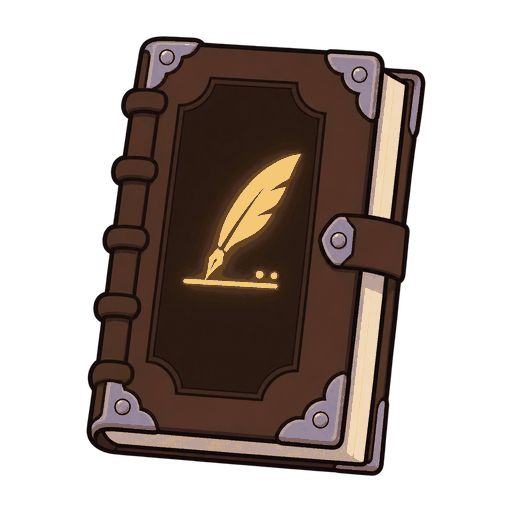
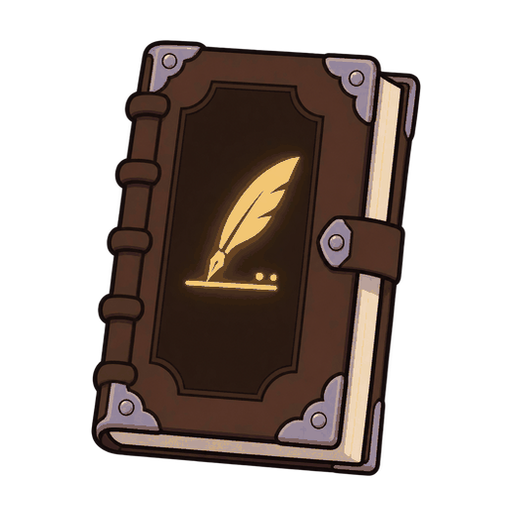
fix(art): the practice books stop changing size with the theme
Two problems, both about a day/night pair not being one composition.

**The books changed footprint when the theme switched.** The generator crops
each file to its own content, so every book arrived as its own bounding box -
the flashcard 655x898, the translation 743x963 - and the night half of a pair
was drawn up to 15% wider than the day half at the same height (choice 329px
vs 378px of content). Rendered at a fixed width that reads as the book growing
and stepping sideways when the theme flips.

Prompting "the same composition" did not get there. It is fixed in the pixels
instead: every pair is now normalised to one canvas (512x512) and one content
height (440px), and each night drawing is resized to occupy exactly the box
its day twin occupies - same left edge, same right edge, same floor. A book is
a rectangle, so the horizontal squeeze lands on the cover panel without
reading as distortion. Verified in the browser: all eight books report the
same 132x132 frame and the same offset in both themes.

**The conversation book had no cover.** It shipped as a drawn SVG placeholder -
a flat green rectangle with a speech mark - because the five AI exercise types
were added after the original art pass. It now has a painted cover in the same
book language as the other seven, day and night, and the placeholder and its
CSS are gone.

Also redraws the four night illustrations that were a different character
[…]

diff --git a/frontend/src/components/PracticeShelf.vue b/frontend/src/components/PracticeShelf.vue
@@ -6,10 +6,6 @@
  * pick up, a name, one line about what the book holds. Picking one does not
  * start anything — it opens the settings for that kind of exercise, because
  * how many questions and from which source is the learner's call.
- *
- * The conversation book has no painted cover yet, so it is drawn: a book in
- * the same 2:3 frame with a speech mark on it. It is a placeholder for the
- * artwork, not a different kind of control.
  */
 import { computed } from 'vue'
 import { practiceBooks } from '../assets/halloween'
@@ -52,23 +48,7 @@ const books = computed(() =>
       type="button"
       @click="emit('pick', book.type)"
     >
-      <ArtImage v-if="book.art" class="shelf-book__art" :set="book.art" />
-      <svg
-        v-else
-        class="shelf-book__art shelf-book__art--drawn"
-        viewBox="0 0 120 180"
-        role="img"
-        :aria-label="`${book.label}书`"
-      >
-        <rect x="6" y="4" width="108" height="172" rx="10" fill="#3f6b52" />
-        <rect x="18" y="4" width="96" height="172" rx="10" fill="#4f8463" />
-        <rect x="18" y="4" width="14" height="172" fill="#3a6149" />
-        <rect x="42" y="30" width="58" height="46" rx="6" fill="#f6e7c3" opacity="0.92" />
-        <path d="M52 46h38M52 58h26" stroke="#3f6b52" stroke-width="5" stroke-linecap="round" />
-        <path d="M52 84c8 0 10 6 18 6s10-6 18-6" stroke="#f6e7c3" stroke-width="4" fill="none" stroke-linecap="round" />
-        <rect x="42" y="120" width="58" height="8" rx="4" fill="#c9a227" opacity="0.85" />
-        <rect x="42" y="136" width="40" height="8" rx="4" fill="#c9a227" opacity="0.6" />
-      </svg>
+      <ArtImage class="shelf-book__art" :set="book.art" />
 
       <span class="shelf-book__title">{{ book.label }}</span>
       <span class="shelf-book__hint">{{ book.hint }}</span>
@@ -78,22 +58,11 @@ const books = computed(() =>
 </template>
 
 <style scoped>
-/* The shelf itself is drawn by ShelfPicker's rules; these are the two things
-   this row needs on top of them: five columns, and a drawn cover. */
+/* The shelf itself is drawn by ShelfPicker's rules; this row only needs its
+   own column count on top of them. */
 .practice-shelf {
   grid-template-columns: repeat(5, minmax(0, 1fr));
   padding-bottom: 2.2rem;
-}
-
-/* A drawn cover has no painted contact shadow to sit in, so it needs its own
-   frame: the same 2:3 box, a leather tint, and the shelf's shadow. The painted
-   covers leave a margin inside their box; this one fills it, so it is scaled
-   down to read at the same weight. */
-.shelf-book__art--drawn {
-  width: min(100%, 104px);
-  border-radius: 8px;
-  background: #4f8463;
-  box-shadow: 0 10px 10px rgb(40 24 8 / 26%);
 }
 
 @media (max-width: 900px) {

diff --git a/frontend/src/tests/halloween-assets.spec.ts b/frontend/src/tests/halloween-assets.spec.ts
@@ -1,5 +1,5 @@
 import { describe, expect, it } from 'vitest'
-import { existsSync } from 'node:fs'
+import { existsSync, readFileSync } from 'node:fs'
 import { fileURLToPath } from 'node:url'
 import { dirname, resolve } from 'node:path'
 import {
@@ -26,10 +26,18 @@ function fileOnDisk(url: string): string {
   return resolve(assetDir, dir, name)
 }
 
+function pngSize(url: string): { width: number; height: number } {
+  const buffer = readFileSync(fileOnDisk(url))
+  // PNG signature is 8 bytes, then the IHDR length + type are 8 more, so the
+  // width and height sit at offsets 16 and 20.
+  return { width: buffer.readUInt32BE(16), height: buffer.readUInt32BE(20) }
+}
+
 describe('halloween art set', () => {
   it('covers every practice type with both themes', () => {
     expect(Object.keys(practiceBooks).sort()).toEqual([
       'choice',
+      'conversation',
       'fill_blank',
       'flashcard',
       'reading',
@@ -71,6 +79,23 @@ describe('halloween art set', () => {
     ]
     const missing = urls.filter((url) => !existsSync(fileOnDisk(url)))
     expect(missing).toEqual([])
+  })
+
+  it('paints both halves of a pair on the same canvas', () => {
+    // Day and night are two generations of one composition. If they are drawn
+    // on canvases of different sizes, switching theme resizes and re-centres
+    // the picture - the bug this test exists to stop. Sizes below are the
+    // shipped canvas for each set; content inside it may differ.
+    const themed = { ...practiceBooks, ...illustration }
+    const mismatched = Object.entries(themed)
+      .map(([name, set]) => ({
+        name,
+        day: pngSize(set.day),
+        night: pngSize(set.night),
+      }))
+      .filter(({ day, night }) => day.width !== night.width || day.height !== night.height)
+      .map(({ name, day, night }) => `${name}: ${day.width}x${day.height} vs ${night.width}x${night.height}`)
+    expect(mismatched).toEqual([])
   })
 
   it('points every night painting at a file that exists', () => {

diff --git a/frontend/src/assets/halloween/index.ts b/frontend/src/assets/halloween/index.ts
@@ -9,7 +9,7 @@
 export type Mode = 'day' | 'night'
 export type ThemeMode = Readonly<Record<Mode, string>>
 
-/** The seven practice types. Keys match PRACTICE_TYPE_LABELS plus the three memory modules. */
+/** Every practice type that has a painted cover: five AI exercise types plus the three memory modules. */
 export type PracticeArt = Readonly<Record<string, ThemeMode>>
 
 import flashcardDay from './book/book-flashcard-day.png'
@@ -26,6 +26,8 @@ import translationDay from './book/book-translation-day.png'
 import translationNight from './book/book-translation-night.png'
 import writingDay from './book/book-writing-day.png'
 import writingNight from './book/book-writing-night.png'
+import conversationDay from './book/book-conversation-day.png'
+import conversationNight from './book/book-conversation-night.png'
 
 /** Keyed by the product's own type names; `cloze` is the file name for fill-blank. */
 export const practiceBooks: PracticeArt = {
@@ -36,6 +38,7 @@ export const practiceBooks: PracticeArt = {
   reading: { day: readingDay, night: readingNight },
   translation: { day: translationDay, night: translationNight },
   writing: { day: writingDay, night: writingNight },
+  conversation: { day: conversationDay, night: conversationNight },
 }
 
 import slabBiscuit from './card/slab-biscuit.png'
